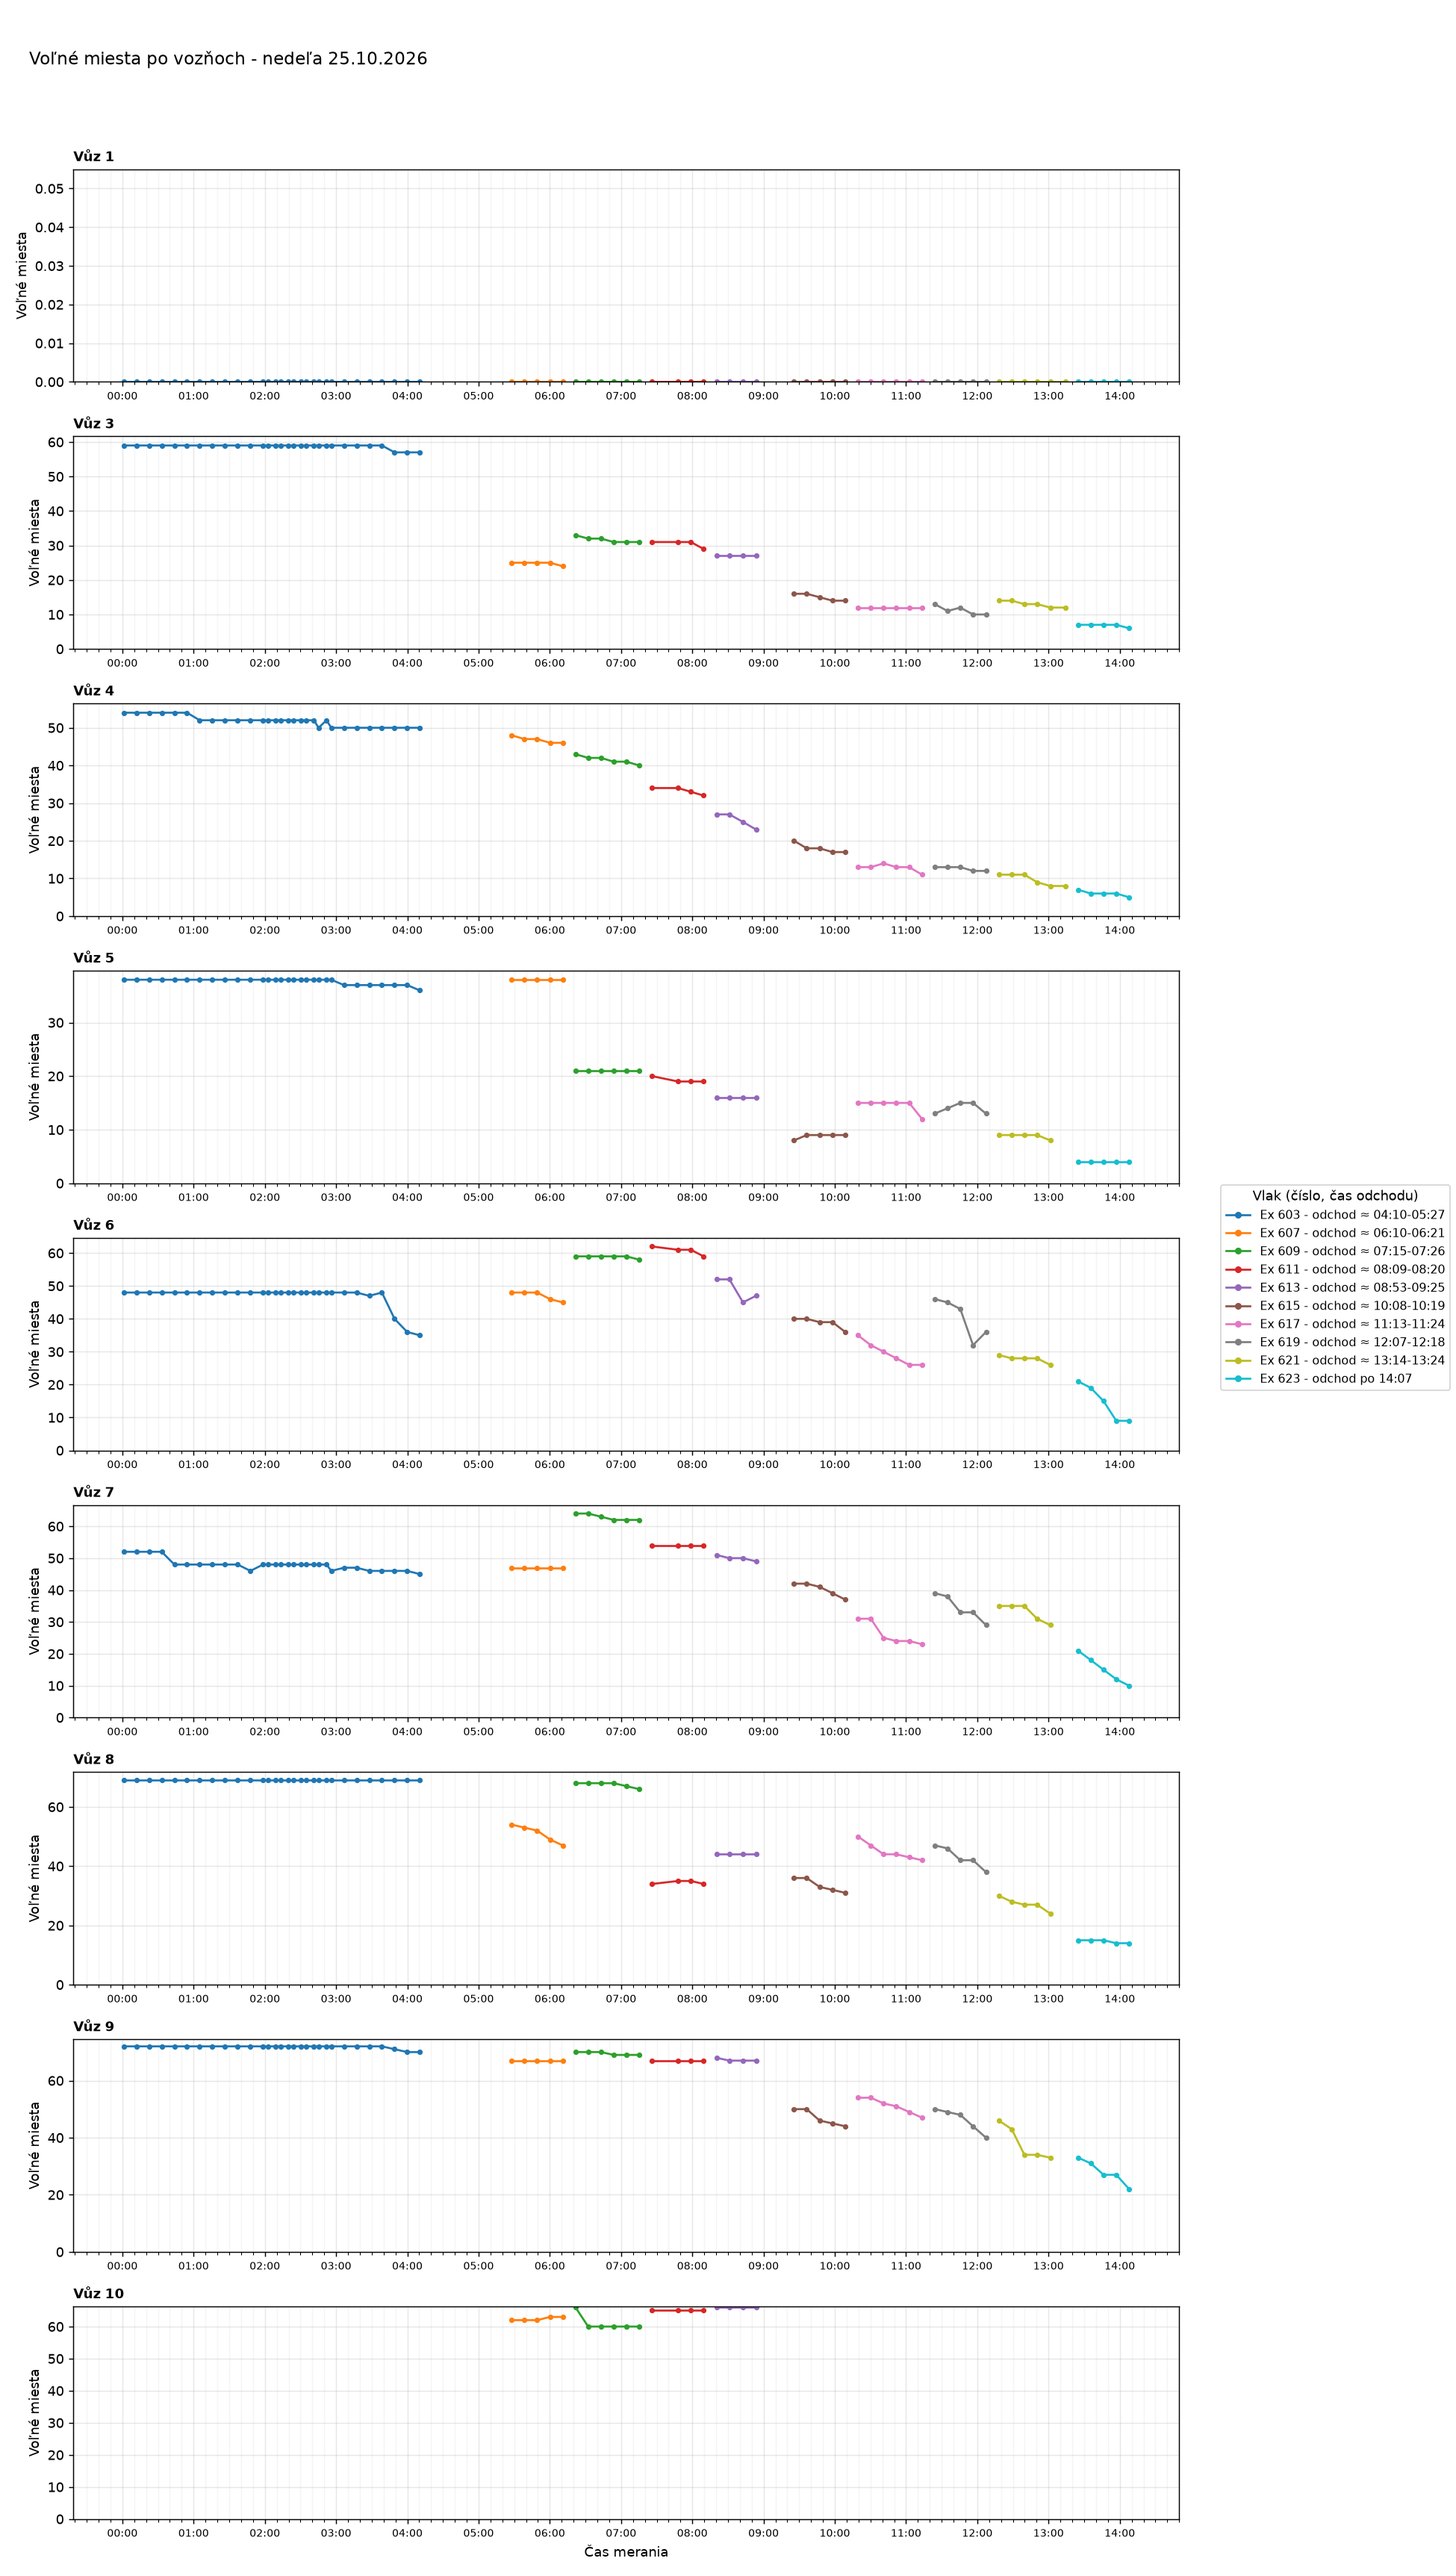
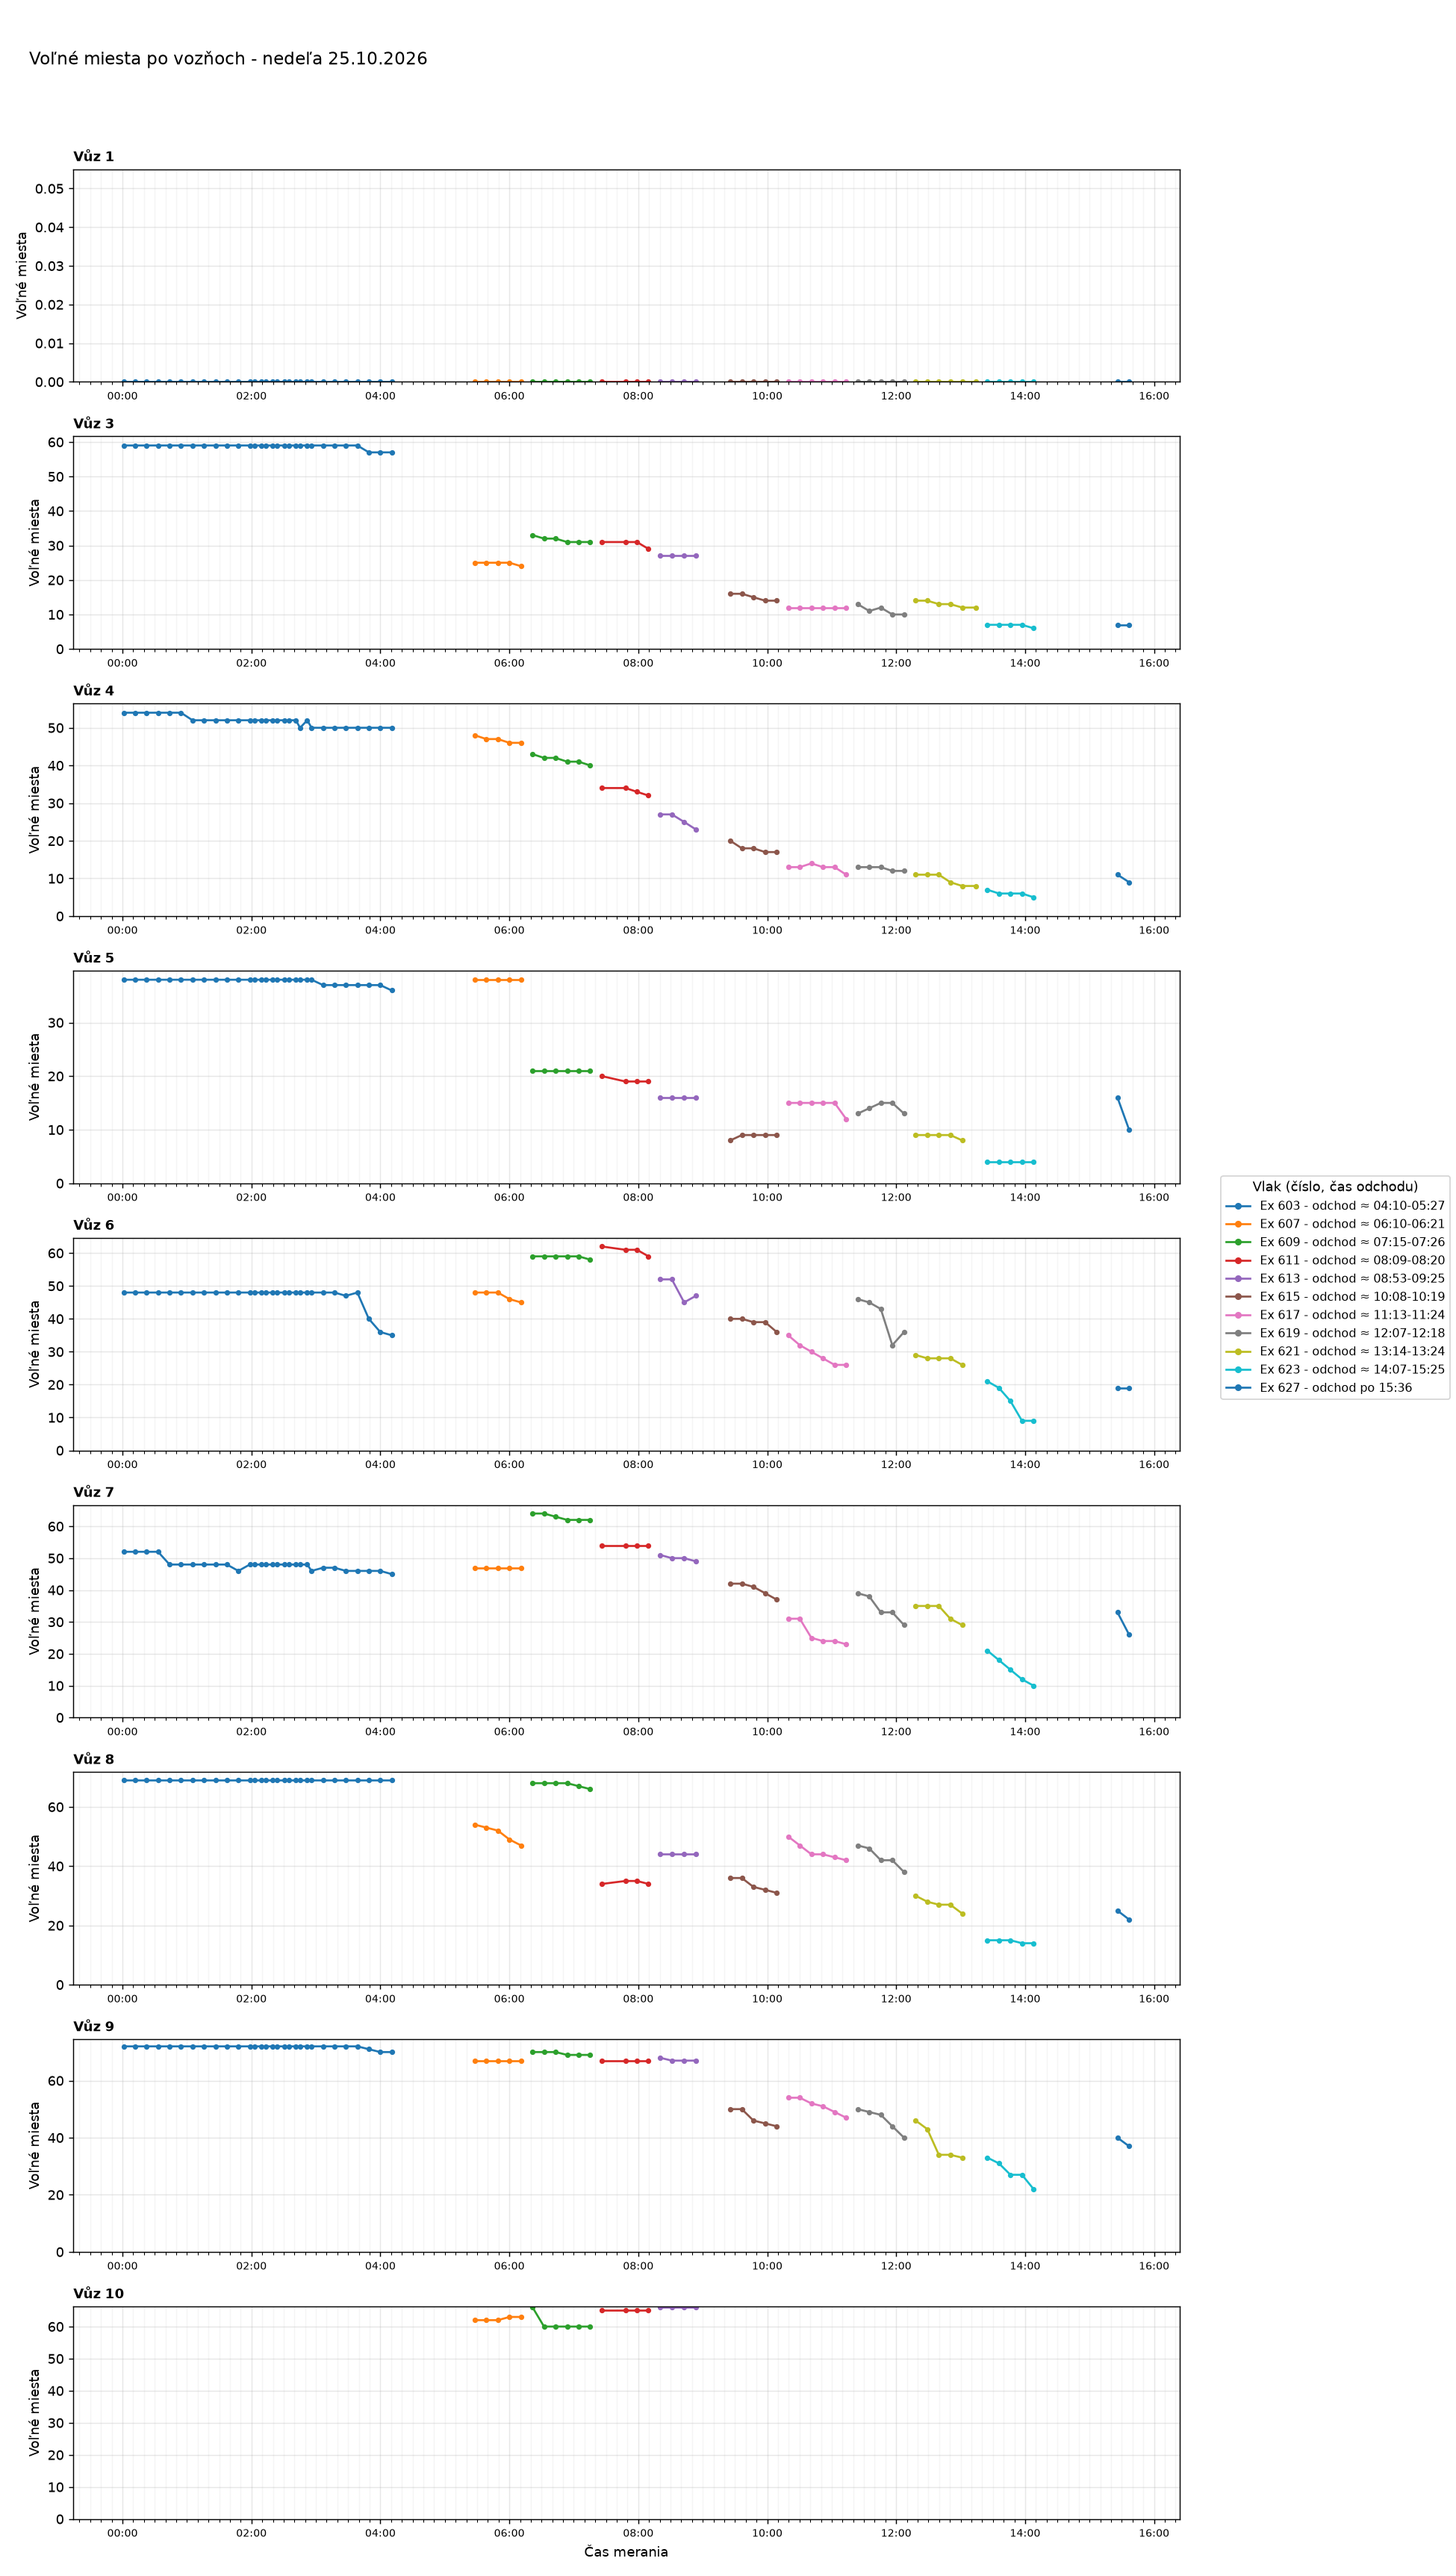
Aktualizácia grafov 2026-10-25 15:41

diff --git a/index.html b/index.html
@@ -35,7 +35,7 @@ h2.oddiel{margin:36px 0 0;font-size:1.4rem}
 <body>
 <main>
 <h1>Voľné miesta vo vlakoch</h1>
-<p class="muted">Posledné meranie: 25.10.2026 14:07 ·
+<p class="muted">Posledné meranie: 25.10.2026 15:36 ·
 <a href="data/obsadenost_data.csv">stiahnuť dáta (CSV)</a></p>
 <nav class="nav"><a href="#suhrn">Súhrn</a><a href="#statistiky">Štatistiky</a><a href="#historia">História grafov</a></nav>
 
@@ -44,7 +44,7 @@ h2.oddiel{margin:36px 0 0;font-size:1.4rem}
 <div class="tablewrap"><table>
 <thead><tr><th>Deň</th><th>Meraní</th><th>Vlakov</th><th>Čas meraní</th></tr></thead>
 <tbody>
-<tr><td><a href="#d2026-10-25">nedeľa 25.10.2026</a></td><td>76</td><td>10</td><td>00:01-14:07</td></tr>
+<tr><td><a href="#d2026-10-25">nedeľa 25.10.2026</a></td><td>78</td><td>11</td><td>00:01-15:36</td></tr>
 <tr><td><a href="#d2026-10-24">sobota 24.10.2026</a></td><td>98</td><td>14</td><td>00:10-23:50</td></tr>
 <tr><td><a href="#d2026-10-23">piatok 23.10.2026</a></td><td>64</td><td>13</td><td>07:25-23:49</td></tr>
 <tr><td><a href="#d2026-10-22">štvrtok 22.10.2026</a></td><td>80</td><td>11</td><td>00:08-16:10</td></tr>
